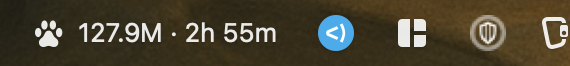
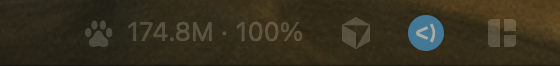
feat: show official session-limit percentage instead of reset countdown
Adds LimitsProvider: reads the Claude Code OAuth credential from the login
keychain and queries Anthropic's OAuth usage endpoint for the same session
(5h) and weekly utilization percentages Claude Code's /usage shows. Menu bar
becomes "🐾 55.3M · 42%", with countdown as the fallback when the limits
fetch fails or its reset time has passed; the dropdown gains session/weekly
limit rows with reset times. Token stays in-process, never persisted.

diff --git a/Sources/ClaudeTokenBar/LimitsProvider.swift b/Sources/ClaudeTokenBar/LimitsProvider.swift
@@ -1,0 +1,99 @@
+import Foundation
+
+// MARK: - Raw OAuth usage response (fields optional/defensive)
+
+struct OAuthUsageWindow: Decodable, Sendable {
+    let utilization: Double?
+    let resets_at: String?
+}
+
+struct OAuthUsageResponse: Decodable, Sendable {
+    let five_hour: OAuthUsageWindow?
+    let seven_day: OAuthUsageWindow?
+}
+
+// MARK: - Normalized model
+
+struct LimitsSnapshot: Codable, Sendable, Equatable {
+    let sessionPercent: Double
+    let sessionResetsAt: Date?
+    let weeklyPercent: Double?
+    let weeklyResetsAt: Date?
+}
+
+// MARK: - Provider
+
+/// Fetches official usage-limit utilization (the same numbers Claude Code's
+/// /usage screen shows) from the OAuth usage endpoint, authenticating with the
+/// Claude Code credential in the login keychain. The token never leaves this
+/// process and is never persisted or logged. Any failure returns nil — the UI
+/// falls back to the block-reset countdown.
+actor LimitsProvider {
+    private static let usageURL = URL(string: "https://api.anthropic.com/api/oauth/usage")!
+
+    func fetch() async -> LimitsSnapshot? {
+        guard let token = await readAccessToken() else { return nil }
+        var request = URLRequest(url: Self.usageURL, timeoutInterval: 10)
+        request.setValue("Bearer \(token)", forHTTPHeaderField: "Authorization")
+        request.setValue("oauth-2025-04-20", forHTTPHeaderField: "anthropic-beta")
+        request.setValue("application/json", forHTTPHeaderField: "Content-Type")
+
+        guard let (data, response) = try? await URLSession.shared.data(for: request),
+              (response as? HTTPURLResponse)?.statusCode == 200,
+              let decoded = try? JSONDecoder().decode(OAuthUsageResponse.self, from: data)
+        else { return nil }
+
+        return Self.map(decoded)
+    }
+
+    static func map(_ decoded: OAuthUsageResponse) -> LimitsSnapshot? {
+        guard let session = decoded.five_hour?.utilization else { return nil }
+        return LimitsSnapshot(
+            sessionPercent: session,
+            sessionResetsAt: parseDate(decoded.five_hour?.resets_at),
+            weeklyPercent: decoded.seven_day?.utilization,
+            weeklyResetsAt: parseDate(decoded.seven_day?.resets_at)
+        )
+    }
+
+    private static func parseDate(_ string: String?) -> Date? {
+        guard let string else { return nil }
+        if let date = SnapshotMapper.parseDate(string) { return date }
+        // The endpoint emits microsecond fractions ("…T10:20:00.450756+00:00");
+        // ISO8601DateFormatter only accepts milliseconds, so trim to 3 digits.
+        let trimmed = string.replacingOccurrences(
+            of: #"\.(\d{3})\d+"#,
+            with: ".$1",
+            options: .regularExpression
+        )
+        return SnapshotMapper.parseDate(trimmed)
+    }
+
+    /// Reads the Claude Code OAuth access token from the login keychain via
+    /// /usr/bin/security (same ACL surface as Claude Code's own tooling).
+    private func readAccessToken() async -> String? {
+        await Task.detached(priority: .utility) {
+            let process = Process()
+            process.executableURL = URL(fileURLWithPath: "/usr/bin/security")
+            process.arguments = ["find-generic-password", "-s", "Claude Code-credentials", "-w"]
+            let stdoutPipe = Pipe()
+            process.standardOutput = stdoutPipe
+            process.standardError = Pipe()
+            do {
+                try process.run()
+            } catch {
+                return nil
+            }
+            let data = stdoutPipe.fileHandleForReading.readDataToEndOfFile()
+            process.waitUntilExit()
+            guard process.terminationStatus == 0,
+                  let raw = String(data: data, encoding: .utf8),
+                  let json = try? JSONSerialization.jsonObject(with: Data(raw.utf8)) as? [String: Any],
+                  let oauth = json["claudeAiOauth"] as? [String: Any],
+                  let token = oauth["accessToken"] as? String,
+                  !token.isEmpty
+            else { return nil }
+            return token
+        }.value
+    }
+}

diff --git a/Tests/ClaudeTokenBarTests/LimitsDecodingTests.swift b/Tests/ClaudeTokenBarTests/LimitsDecodingTests.swift
@@ -1,0 +1,43 @@
+import XCTest
+@testable import ClaudeTokenBar
+
+final class LimitsDecodingTests: XCTestCase {
+
+    private let fixture = """
+    {
+     "five_hour": {
+      "utilization": 96.0,
+      "resets_at": "2026-07-03T10:20:00.450756+00:00",
+      "limit_dollars": null
+     },
+     "seven_day": {
+      "utilization": 20.0,
+      "resets_at": "2026-07-09T07:00:00.450777+00:00"
+     },
+     "seven_day_opus": null,
+     "extra_usage": {"is_enabled": false}
+    }
+    """
+
+    func testDecodesAndMapsOAuthUsageResponse() throws {
+        let decoded = try JSONDecoder().decode(OAuthUsageResponse.self, from: Data(fixture.utf8))
+        let mapped = LimitsProvider.map(decoded)
+        XCTAssertEqual(mapped?.sessionPercent, 96.0)
+        XCTAssertEqual(mapped?.weeklyPercent, 20.0)
+        // Microsecond fractions must still parse (trimmed to milliseconds).
+        XCTAssertNotNil(mapped?.sessionResetsAt)
+        XCTAssertNotNil(mapped?.weeklyResetsAt)
+    }
+
+    func testMissingFiveHourMapsToNil() throws {
+        let decoded = try JSONDecoder().decode(OAuthUsageResponse.self, from: Data("{}".utf8))
+        XCTAssertNil(LimitsProvider.map(decoded))
+    }
+
+    func testPercentFormatting() {
+        XCTAssertEqual(Formatters.percent(96.0), "96%")
+        XCTAssertEqual(Formatters.percent(0.4), "0%")
+        XCTAssertEqual(Formatters.percent(99.6), "100%")
+        XCTAssertEqual(Formatters.percent(-1), "0%")
+    }
+}

diff --git a/Sources/ClaudeTokenBar/StatusItemController.swift b/Sources/ClaudeTokenBar/StatusItemController.swift
@@ -57,7 +57,13 @@ final class StatusItemController: NSObject, NSMenuDelegate {
         if snapshot.updatedAt == .distantPast {
             title = " ..."
         } else if let block = snapshot.block, block.endTime > Date() {
-            title = " \(Formatters.tokens(block.totalTokens)) · \(Formatters.countdown(from: Date(), to: block.endTime))"
+            if let limits = currentLimits() {
+                title = " \(Formatters.tokens(block.totalTokens)) · \(Formatters.percent(limits.sessionPercent))"
+            } else {
+                title = " \(Formatters.tokens(block.totalTokens)) · \(Formatters.countdown(from: Date(), to: block.endTime))"
+            }
+        } else if let limits = currentLimits() {
+            title = " \(Formatters.percent(limits.sessionPercent))"
         } else {
             title = " idle"
         }
@@ -81,6 +87,22 @@ final class StatusItemController: NSObject, NSMenuDelegate {
         }
 
         menu.addItem(.separator())
+
+        if let limits = currentLimits() {
+            var session = "Session limit \(Formatters.percent(limits.sessionPercent)) used"
+            if let resets = limits.sessionResetsAt {
+                session += " · resets \(Formatters.resetTime(resets))"
+            }
+            menu.addItem(disabledItem(session))
+            if let weekly = limits.weeklyPercent {
+                var week = "Weekly limit \(Formatters.percent(weekly)) used"
+                if let resets = limits.weeklyResetsAt {
+                    week += " · resets \(Formatters.resetDay(resets))"
+                }
+                menu.addItem(disabledItem(week))
+            }
+            menu.addItem(.separator())
+        }
 
         if let block = snapshot.block, block.endTime > Date() {
             menu.addItem(disabledItem("Current block (resets \(Formatters.resetTime(block.endTime)), \(Formatters.countdown(from: Date(), to: block.endTime)) left)"))
@@ -113,6 +135,15 @@ final class StatusItemController: NSObject, NSMenuDelegate {
         menu.addItem(actionItem("Quit", action: #selector(quit)))
 
         return menu
+    }
+
+    /// Limits data is only trustworthy until its own reset time — after that,
+    /// carry-over from a failed refresh would show a stale percentage, so fall
+    /// back to the countdown display instead.
+    private func currentLimits() -> LimitsSnapshot? {
+        guard let limits = snapshot.limits else { return nil }
+        if let resets = limits.sessionResetsAt, resets <= Date() { return nil }
+        return limits
     }
 
     private func disabledItem(_ title: String) -> NSMenuItem {

diff --git a/Sources/ClaudeTokenBar/UsageSnapshot.swift b/Sources/ClaudeTokenBar/UsageSnapshot.swift
@@ -96,10 +96,11 @@ struct BlockSummary: Codable, Sendable, Equatable {
 struct UsageSnapshot: Codable, Sendable, Equatable {
     var today: TodaySummary?
     var block: BlockSummary?
+    var limits: LimitsSnapshot?
     var updatedAt: Date
     var errorMessage: String?
 
-    static let empty = UsageSnapshot(today: nil, block: nil, updatedAt: .distantPast, errorMessage: nil)
+    static let empty = UsageSnapshot(today: nil, block: nil, limits: nil, updatedAt: .distantPast, errorMessage: nil)
 }
 
 // MARK: - Mapping from raw ccusage responses to the normalized model
@@ -171,6 +172,7 @@ enum SnapshotMapper {
     static func build(
         daily: DailyResponse?,
         blocks: BlocksResponse?,
+        limits: LimitsSnapshot?,
         previous: UsageSnapshot,
         updatedAt: Date,
         errorMessage: String?
@@ -189,6 +191,12 @@ enum SnapshotMapper {
             block = previous.block
         }
 
-        return UsageSnapshot(today: today, block: block, updatedAt: updatedAt, errorMessage: errorMessage)
+        return UsageSnapshot(
+            today: today,
+            block: block,
+            limits: limits ?? previous.limits,
+            updatedAt: updatedAt,
+            errorMessage: errorMessage
+        )
     }
 }

diff --git a/Sources/ClaudeTokenBar/Formatters.swift b/Sources/ClaudeTokenBar/Formatters.swift
@@ -35,6 +35,16 @@ enum Formatters {
         return "\(minutes)m"
     }
 
+    /// Limit utilization: `96%` (rounded to whole percent, clamped at 0).
+    static func percent(_ value: Double) -> String {
+        "\(max(0, Int(value.rounded())))%"
+    }
+
+    /// Local weekday + time for multi-day resets, e.g. `Thu 16:00`.
+    static func resetDay(_ date: Date) -> String {
+        makeTimeFormatter("E HH:mm").string(from: date)
+    }
+
     /// Local wall-clock time with seconds, e.g. `11:42:03`.
     static func time(_ date: Date) -> String {
         makeTimeFormatter("HH:mm:ss").string(from: date)

diff --git a/Sources/ClaudeTokenBar/RefreshCoordinator.swift b/Sources/ClaudeTokenBar/RefreshCoordinator.swift
@@ -3,6 +3,7 @@ import Foundation
 @MainActor
 final class RefreshCoordinator {
     private let provider: CCUsageProvider
+    private let limitsProvider = LimitsProvider()
     private let store: StateStore
     private let projectsURL: URL
     private let onSnapshot: @MainActor (UsageSnapshot) -> Void
@@ -87,10 +88,12 @@ final class RefreshCoordinator {
         }
 
         let todayString = Self.yyyymmdd(Date())
+        async let limitsFetch = limitsProvider.fetch()
         let fetchResult = await fetchSnapshotPieces(sinceYYYYMMDD: todayString)
         let newSnapshot = SnapshotMapper.build(
             daily: fetchResult.daily,
             blocks: fetchResult.blocks,
+            limits: await limitsFetch,
             previous: snapshot,
             updatedAt: Date(),
             errorMessage: fetchResult.errorMessage

diff --git a/README.md b/README.md
@@ -40,8 +40,10 @@ To start it at login: System Settings → General → Login Items → add `Claud
 
 ## What it shows
 
-- **Menu bar**: `🐾 55.3M · 2h41m` — active 5-hour block tokens and time until reset (`idle` when no active block, `⚠` on errors).
-- **Dropdown**: today's tokens/cost with input/output/cache breakdown, current block detail (burn rate, projected cost at reset), per-model costs, last-updated time, Refresh Now, and a shortcut to the transcripts folder.
+- **Menu bar**: `🐾 55.3M · 42%` — active 5-hour block tokens and the official session-limit utilization (the same percentage Claude Code's `/usage` shows). Falls back to the block-reset countdown (`🐾 55.3M · 2h41m`) when the limits API is unavailable; `idle` when no active block; `⚠` on errors.
+- **Dropdown**: session and weekly limit percentages with reset times, today's tokens/cost with input/output/cache breakdown, current block detail (burn rate, projected cost at reset), per-model costs, last-updated time, Refresh Now, and a shortcut to the transcripts folder.
+
+Limit percentages come from Anthropic's OAuth usage endpoint, authenticated with your local Claude Code credential (read from the login keychain via `/usr/bin/security`). The token never leaves your machine, is never written to disk by this app, and is never logged.
 
 ## Behavior
 